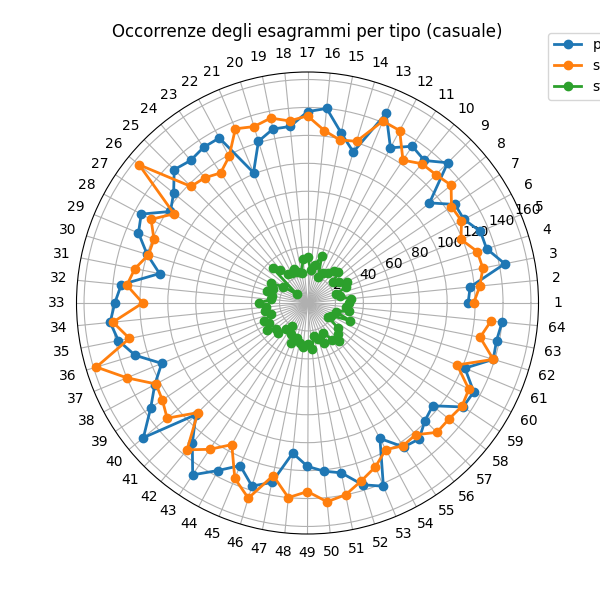
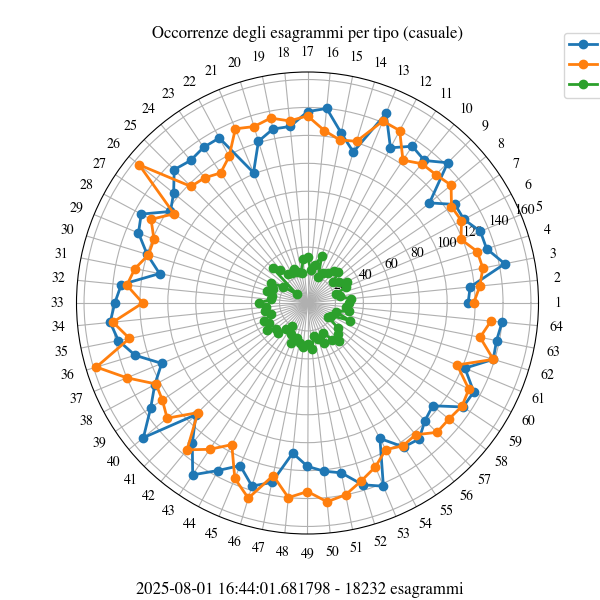
Aggiornati i plot con più informazioni

diff --git a/docs/print_plots.py b/docs/print_plots.py
@@ -1,9 +1,12 @@
+import datetime
 import matplotlib.pyplot as plt
 import pandas as pd
 import numpy as np
 
-# rand_log = pd.read_csv('rand.csv', sep=',')
-# rand_log.set_index('time', inplace=True)
+plt.rcParams['font.family'] = 'Times'
+
+# rand_log = pd.read_csv('./data/rand.csv', sep=',')
+# # rand_log.set_index('time', inplace=True)
 # types = rand_log['type'].unique()
 
 # fig, ax = plt.subplots()
@@ -12,10 +15,11 @@ import numpy as np
 #     counts = df_type['hex'].value_counts().sort_index()
 #     ax.plot(counts.index, counts.values, label=type, marker='o')
 
-# ax.set_xlabel('Esagrammi')
-# ax.set_ylabel('Occorrenze')
+# # ax.set_xlabel('Esagrammi')
+# # ax.set_ylabel('Occorrenze')
 # ax.set_title('Occorrenze degli esagrammi per tipo (casuale)')
 # ax.legend()
+# plt.figtext(0.5, 0.01, f"{datetime.datetime.now()} - {len(rand_log['time'])} esagrammi", wrap=True, horizontalalignment='center', fontsize=12)
 # plt.savefig('./docs/rand_rect.png')
 
 # hex_values = range(1, 65)
@@ -30,15 +34,16 @@ import numpy as np
 # ax = fig.add_subplot(111, polar=True)
 # for i, counts in enumerate(data):
 #     ax.plot(angles, counts, 'o-', linewidth=2, label=types[i])
-
+    
 # ax.set_thetagrids(angles * 180/np.pi, hex_values)
 # ax.set_title('Occorrenze degli esagrammi per tipo (casuale)')
 # ax.legend(loc='upper right', bbox_to_anchor=(1.3, 1.1))
+# plt.figtext(0.5, 0.01, f"{datetime.datetime.now()} - {len(rand_log['time'])} esagrammi", wrap=True, horizontalalignment='center', fontsize=12)
 # plt.savefig('./docs/rand_radar.png')
 
 
-sig_log = pd.read_csv('sig.csv', sep=',')
-sig_log.set_index('time', inplace=True)
+sig_log = pd.read_csv('./data/sig.csv', sep=',')
+# sig_log.set_index('time', inplace=True)
 types = sig_log['type'].unique()
 
 fig, ax = plt.subplots()
@@ -47,10 +52,11 @@ for type in types:
     counts = df_type['hex'].value_counts().sort_index()
     ax.plot(counts.index, counts.values, label=type, marker='o')
 
-ax.set_xlabel('Esagrammi')
-ax.set_ylabel('Occorrenze')
+# ax.set_xlabel('Esagrammi')
+# ax.set_ylabel('Occorrenze')
 ax.set_title('Occorrenze degli esagrammi per tipo (significativo)')
 ax.legend()
+plt.figtext(0.5, 0.01, f"{datetime.datetime.now()} - {len(sig_log['time'])} esagrammi", wrap=True, horizontalalignment='center', fontsize=12)
 plt.savefig('./docs/sig_rect.png')
 
 hex_values = range(1, 65)
@@ -69,4 +75,5 @@ for i, counts in enumerate(data):
 ax.set_thetagrids(angles * 180/np.pi, hex_values)
 ax.set_title('Occorrenze degli esagrammi per tipo (significativo)')
 ax.legend(loc='upper right', bbox_to_anchor=(1.3, 1.1))
+plt.figtext(0.5, 0.01, f"{datetime.datetime.now()} - {len(sig_log['time'])} esagrammi", wrap=True, horizontalalignment='center', fontsize=12)
 plt.savefig('./docs/sig_radar.png')

diff --git a/README.md b/README.md
@@ -23,7 +23,7 @@ Questi, invece, sono i medesimi grafici utilizzando letture significative, ossia
 ![img](./docs/sig_rect.png)
 ![img](./docs/sig_radar.png)
 
-Al momento i dati sono troppo pochi (89 contro 10.000) per trarre qualsiasi conclusione sensata.
+Al momento i dati sono troppo pochi per trarre qualsiasi conclusione sensata.
 
 Ciò che mi aspetto è uno di questi tre casi:
 
